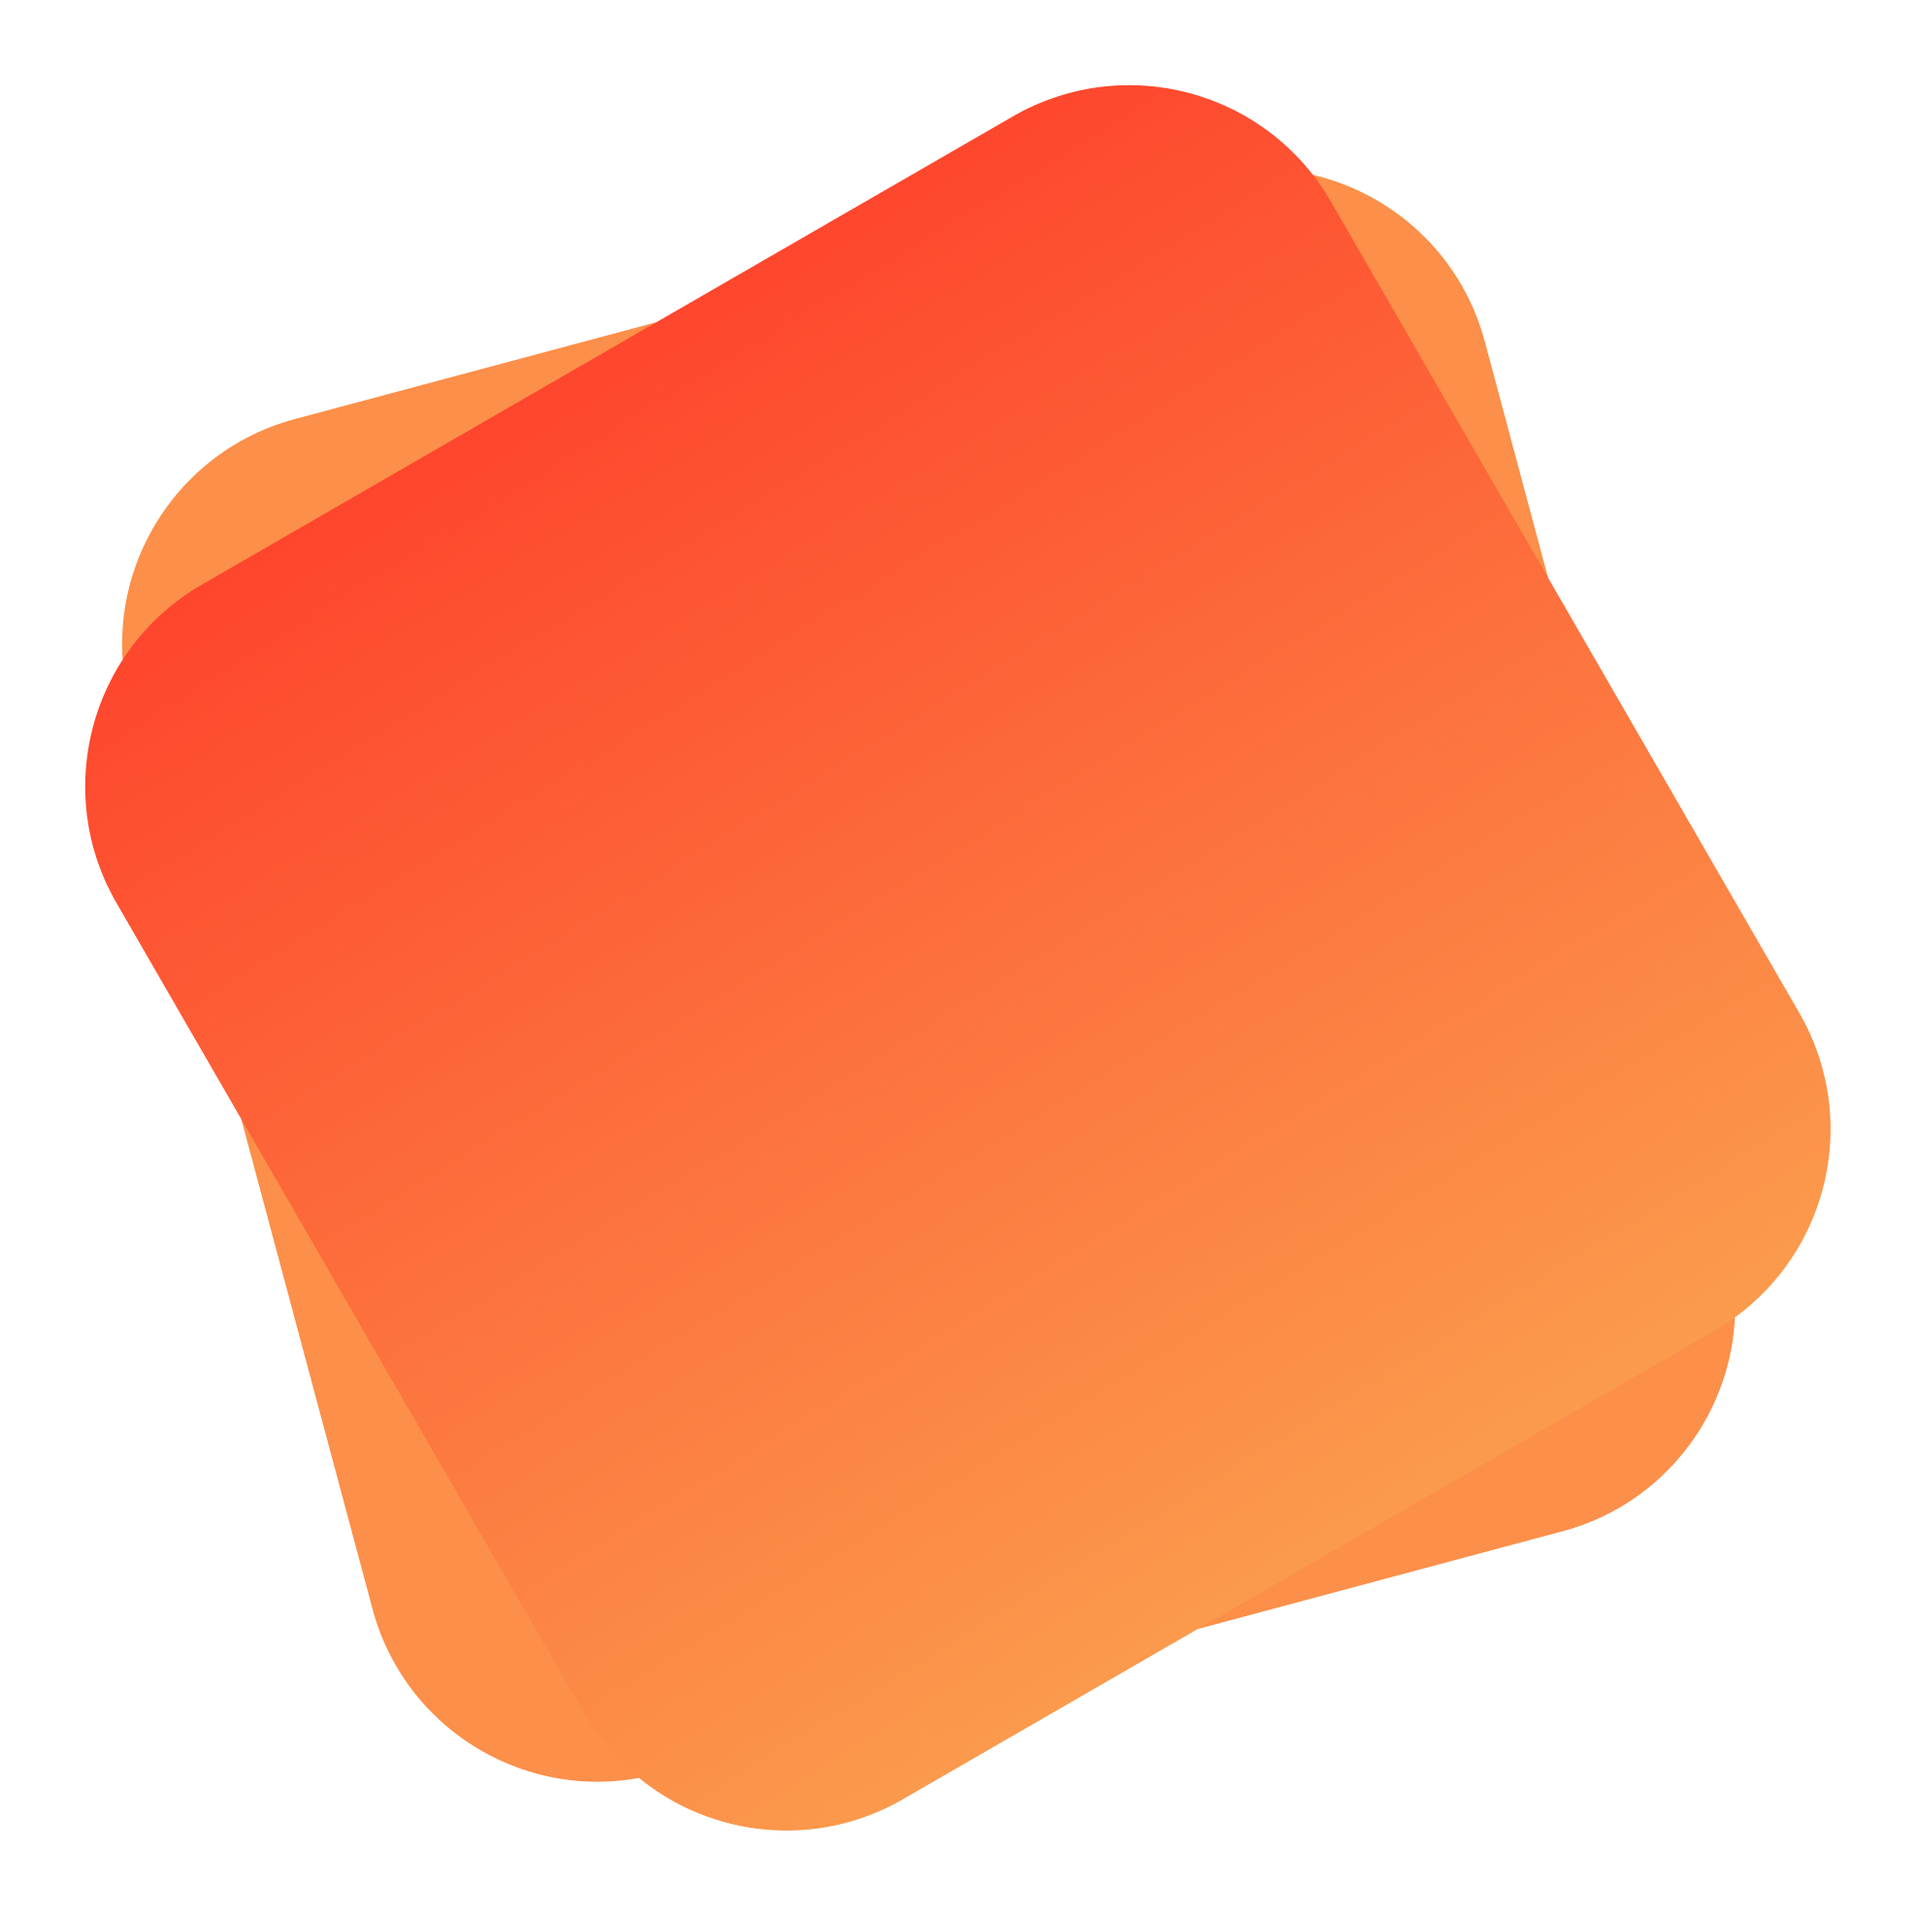
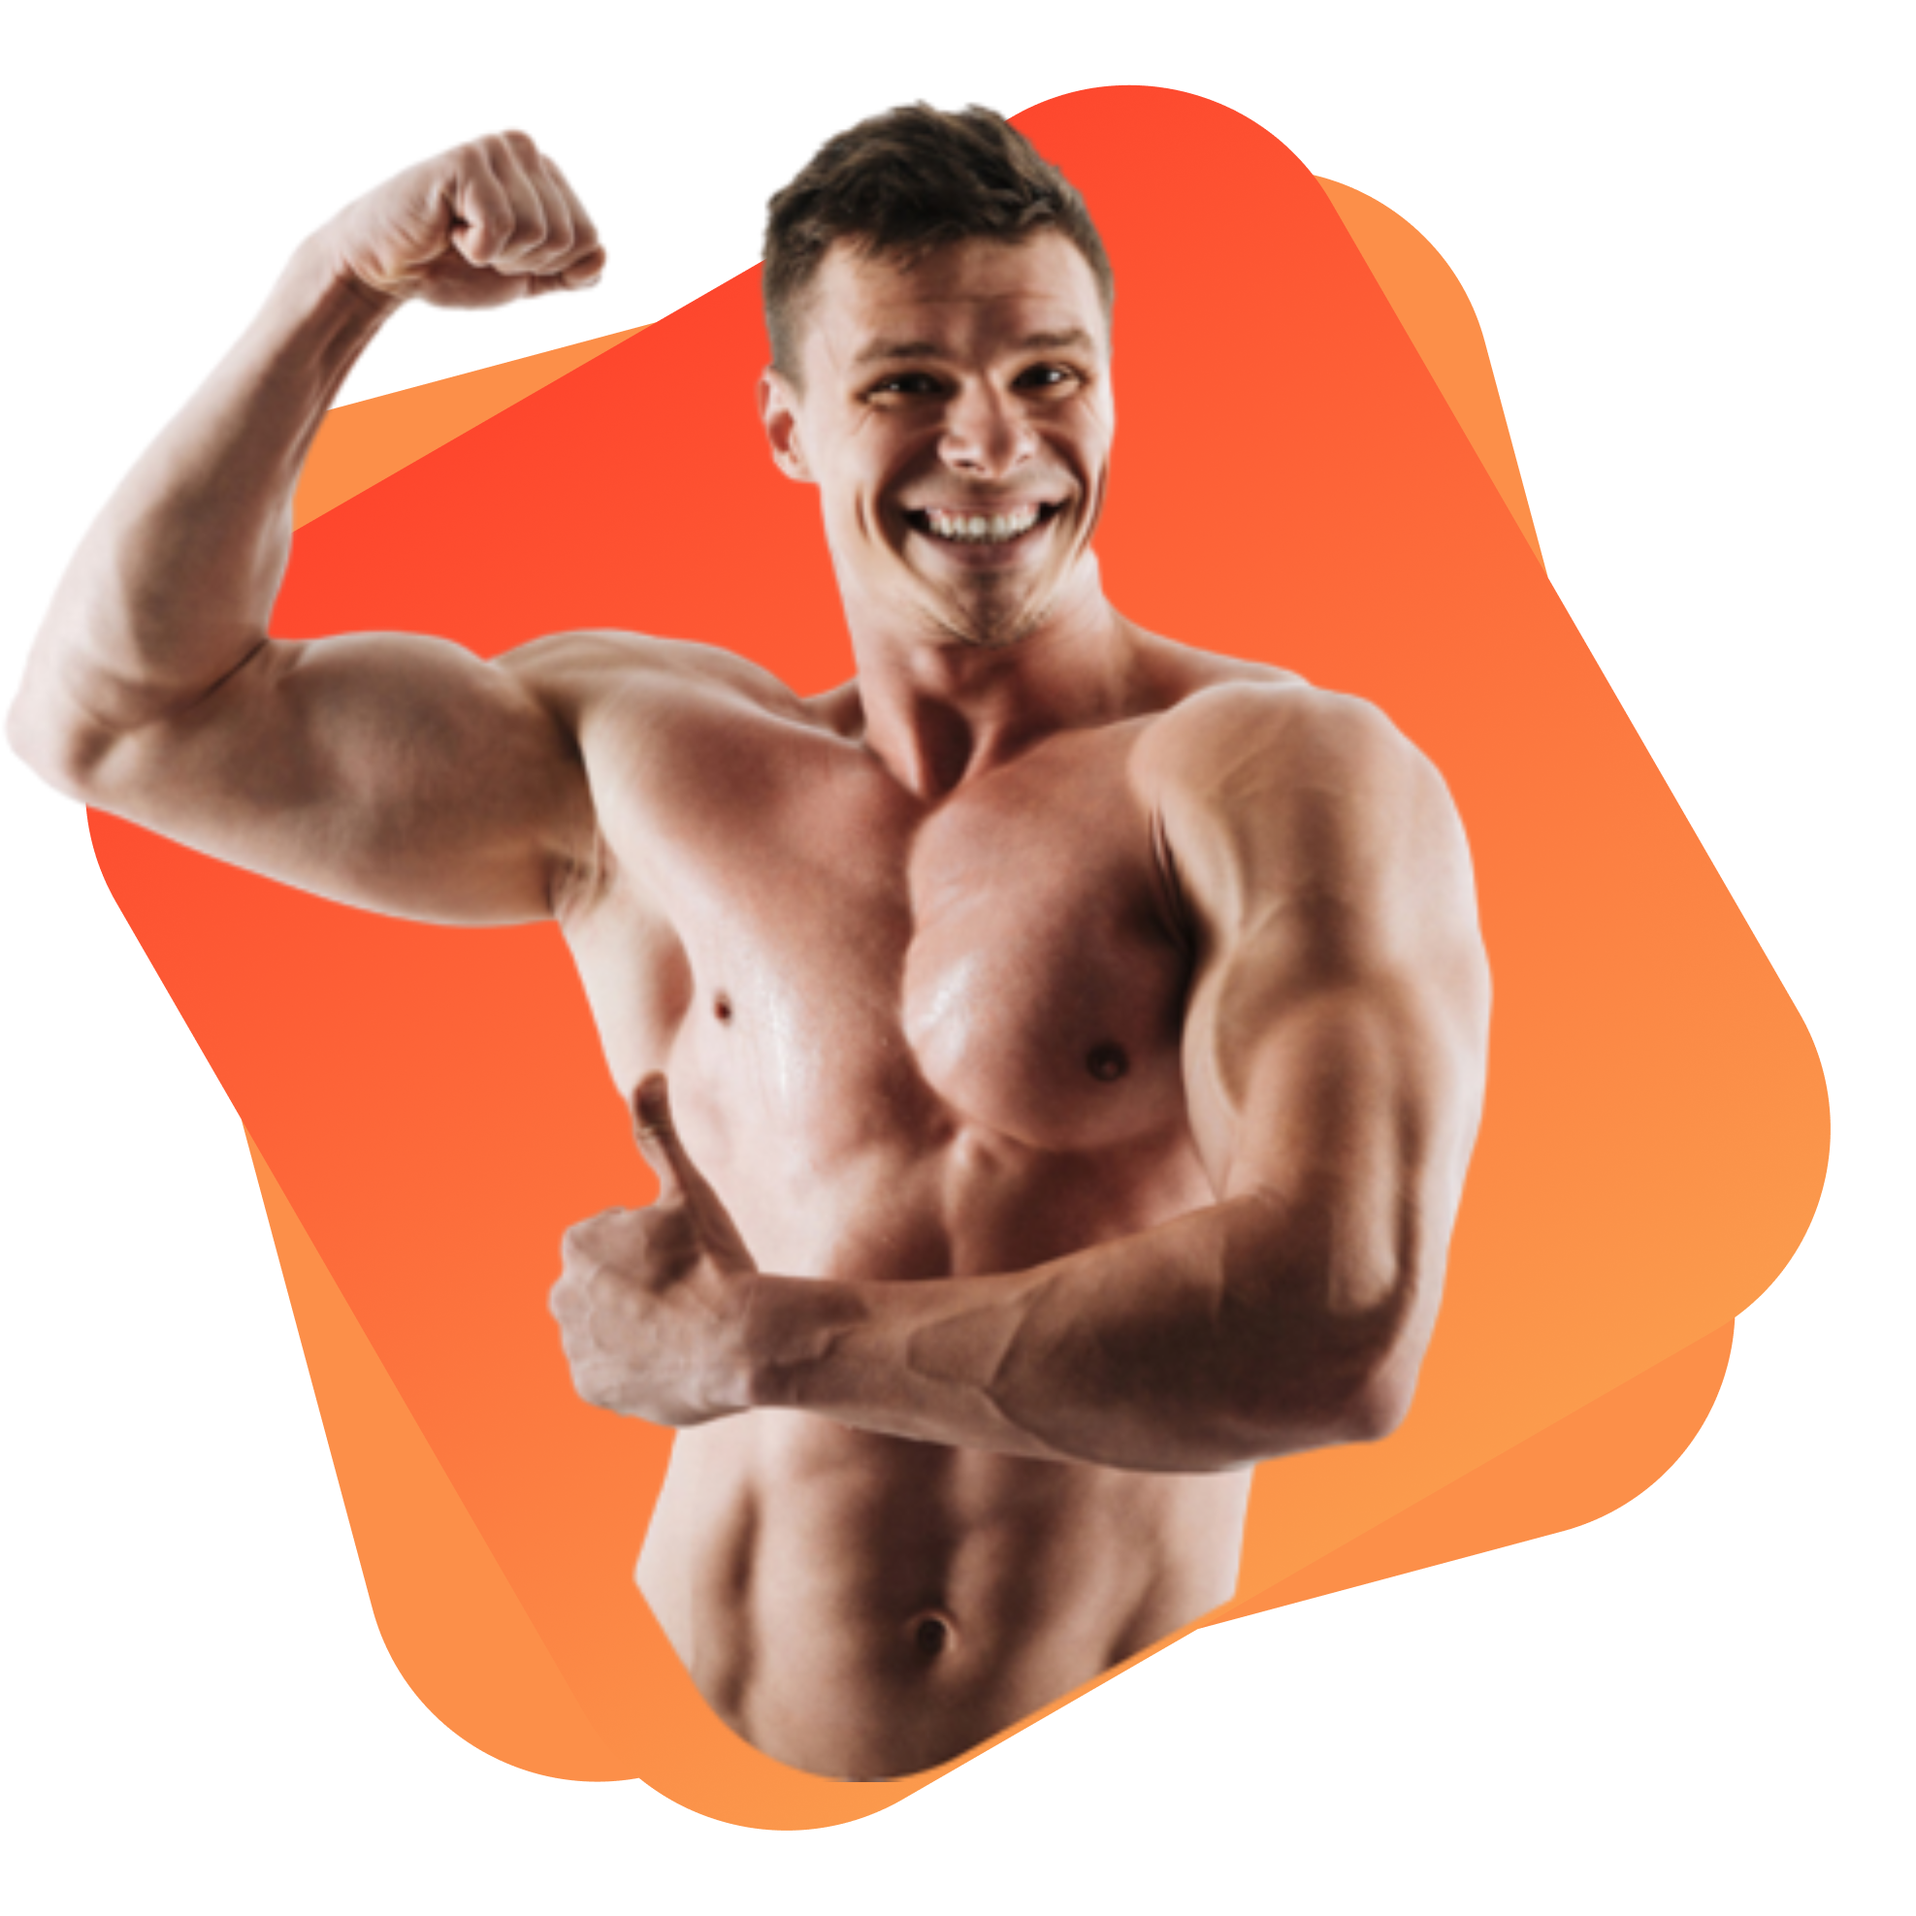
code added

diff --git a/index.html b/index.html
@@ -5,9 +5,31 @@
     <meta http-equiv="X-UA-Compatible" content="IE=edge">
     <meta name="viewport" content="width=device-width, initial-scale=1.0">
     <link rel="stylesheet" href="style.css">
-    <title>EAT HEALTHY FEED</title>
+
+    <link rel="preconnect" href="https://fonts.googleapis.com">
+    <link rel="preconnect" href="https://fonts.gstatic.com" crossorigin>
+    <link href="https://fonts.googleapis.com/css2?family=Josefin+Sans&display=swap" rel="stylesheet">
+    <title>EAT HEALTHY FOOD</title>
 </head>
 <body>
+
+    <!--TOP AREA START-->
+<div class="top-area">
+
+
+    <div class="first-heading">
+    <h1> <span>Skip</span> the Diet,<br>Just Eat Healthy<br> With Food Network</h1>
+    <h6>Imagine you don't need a diet because we provide<br> healthy and delicious food for you</h6>
+    <button>Order Food</button>
+    </div>
+
+    <div class="hero-image">
+    <img src="Group 8450.png" alt="">
+    </div>
+
+</div>
+
+<!--TOP AREA END-->
     
 </body>
 </html>

diff --git a/style.css b/style.css
@@ -1,0 +1,39 @@
+body{
+    font-family: 'Josefin Sans', sans-serif;
+}
+
+.top-area{
+    display: flex;
+    width: 100%;
+}
+.first-heading{
+    margin-left: 30px;     
+}
+.first-heading h1{
+    font-size: 70px;
+    line-height: 81px;
+}
+.first-heading h1 span{
+ color: orange;
+}
+.first-heading h6{
+    font-size: 20px;
+    line-height: 29px;
+    color: gray;
+   }
+.first-heading button{
+    padding: 20px 40px;
+    font-size: 20px;
+    background-image: linear-gradient(#FD5332, #FB9149);
+    border: none;
+    border-radius: 30px;
+    color: white;
+    margin-top: -50px;
+}
+.hero-image img{
+    width: 592px;
+    height: 527px;
+    margin-right: 30px;
+   
+}
+
